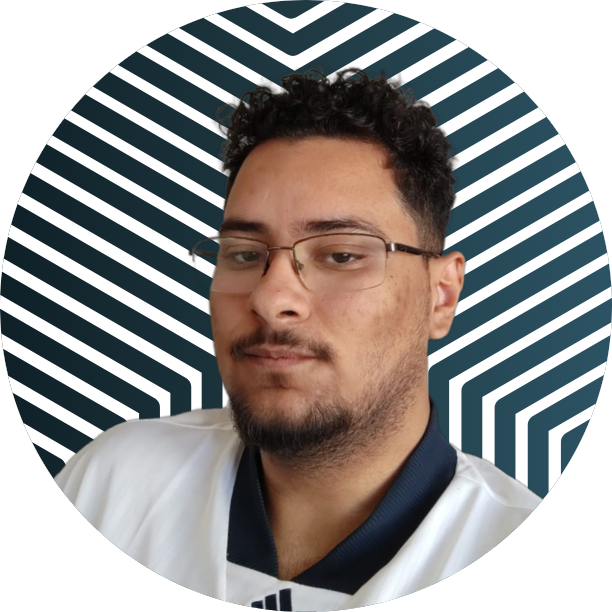
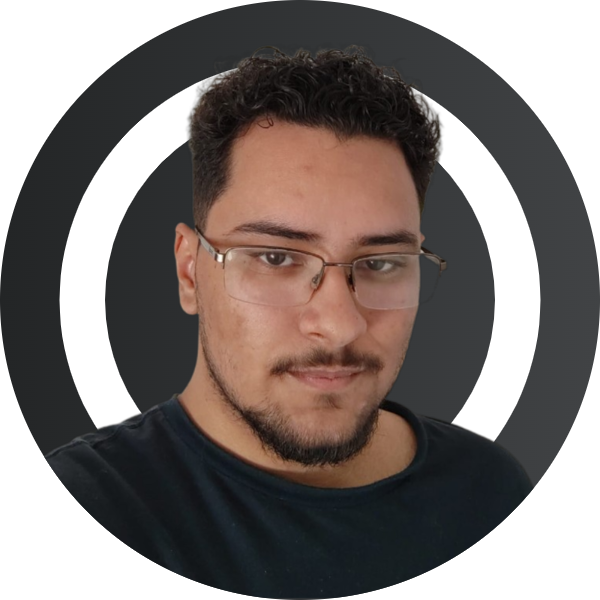
new techs + new profile pic

diff --git a/src/components/Techs/index.jsx b/src/components/Techs/index.jsx
@@ -43,7 +43,7 @@ export function TechSection({ title, technologies }) {
           <TitleIconWrapper>
             <h3>Tenho experiência</h3>
             <Tooltip content="Já usei em experiências profissionais ou em projetos pessoais mais complexos">
-              <IoInformationCircleOutline />
+              <IoInformationCircleOutline size={18} />
             </Tooltip>
           </TitleIconWrapper>
 
@@ -68,7 +68,7 @@ export function TechSection({ title, technologies }) {
           <TitleIconWrapper>
             <h3>Aprendendo</h3>
             <Tooltip content="Já usei em projetos pessoais pequenos ou em exercícios para praticar">
-              <IoInformationCircleOutline />
+              <IoInformationCircleOutline size={18} />
             </Tooltip>
           </TitleIconWrapper>
           <ContainerIconWrapper>
@@ -91,8 +91,8 @@ export function TechSection({ title, technologies }) {
         <div>
           <TitleIconWrapper>
             <h3>Quero aprender</h3>
-            <Tooltip content="Tecnologias que tenho interesse em dominar">
-              <IoInformationCircleOutline />
+            <Tooltip content="Tecnologias que tenho interesse em aprender">
+              <IoInformationCircleOutline size={18} />
             </Tooltip>
           </TitleIconWrapper>
           <ContainerIconWrapper>

diff --git a/src/components/Tooltip/styles.js b/src/components/Tooltip/styles.js
@@ -1,4 +1,5 @@
 import { styled } from "styled-components";
+import { DEVICE_BREAKPOINTS } from "../../styles/deviceBreakpoint";
 
 export const ContainerTooltip = styled.div`
   display: flex;
@@ -15,12 +16,19 @@ export const TooltipWrapper = styled.div`
   padding: 6px;
   color: ${({ theme }) => theme.COLORS.WHITE};
   background: ${({ theme }) => theme.COLORS.COAL};
-  font-size: 14px;
   line-height: 1;
   z-index: 100;
   text-align: center;
   white-space: nowrap;
+
+  min-width: 250px;
+  width: fit-content;
   top: -40px;
+
+  @media (max-width: ${DEVICE_BREAKPOINTS.SM}) {
+    white-space: normal;
+    top: -50px;
+  }
 
   &::before {
     content: " ";

diff --git a/src/utils/techData.js b/src/utils/techData.js
@@ -6,7 +6,12 @@ import {
   IoLogoHtml5,
   IoLogoJavascript,
 } from "react-icons/io5";
-import { BiLogoTypescript, BiLogoGithub, BiLogoGit } from "react-icons/bi";
+import {
+  BiLogoTypescript,
+  BiLogoGithub,
+  BiLogoGit,
+  BiLogoPostgresql,
+} from "react-icons/bi";
 import {
   SiSqlite,
   SiStyledcomponents,
@@ -136,6 +141,12 @@ export const techData = {
       name: "MySQL",
       icon: GrMysql,
       backgroundColor: "#4479A1",
+      status: "experience",
+    },
+    {
+      name: "PostgreSQL",
+      icon: BiLogoPostgresql,
+      backgroundColor: "#699ECA",
       status: "experience",
     },
     {
